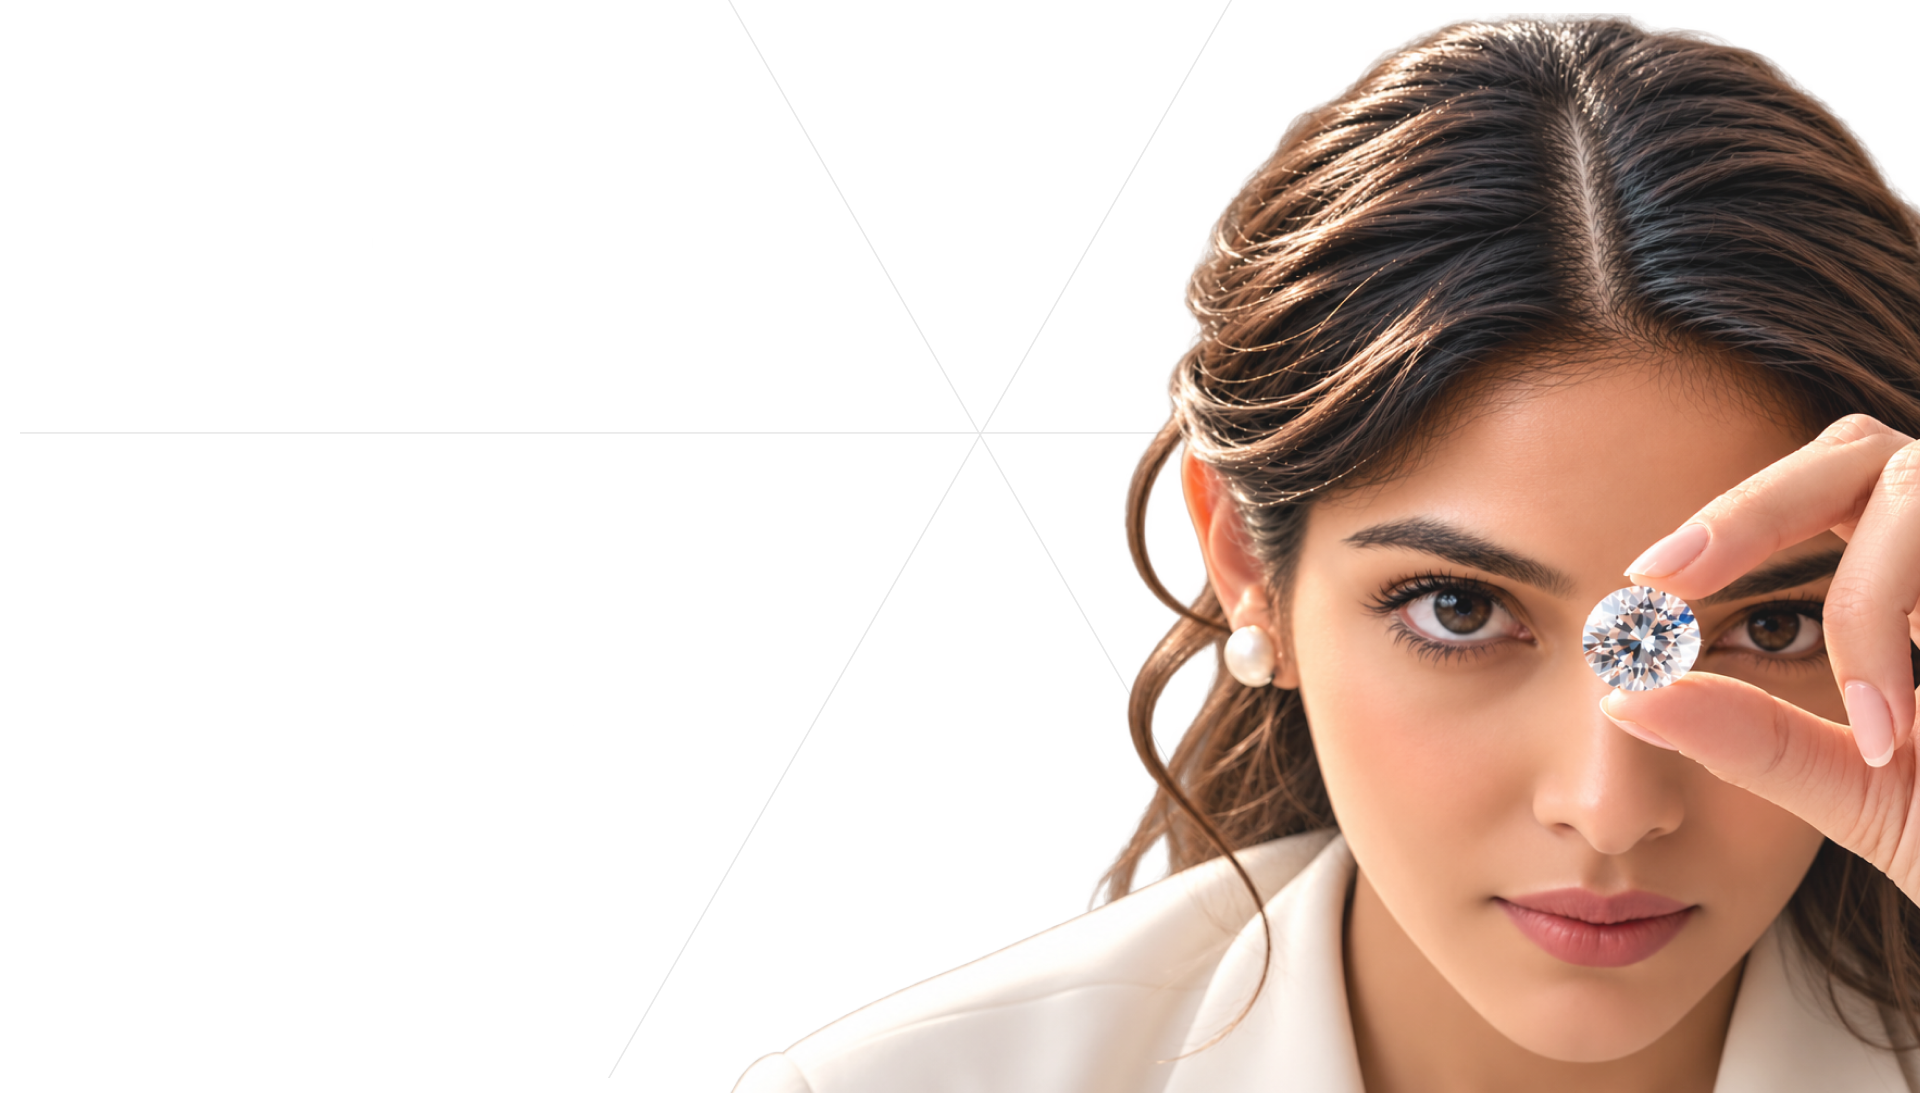
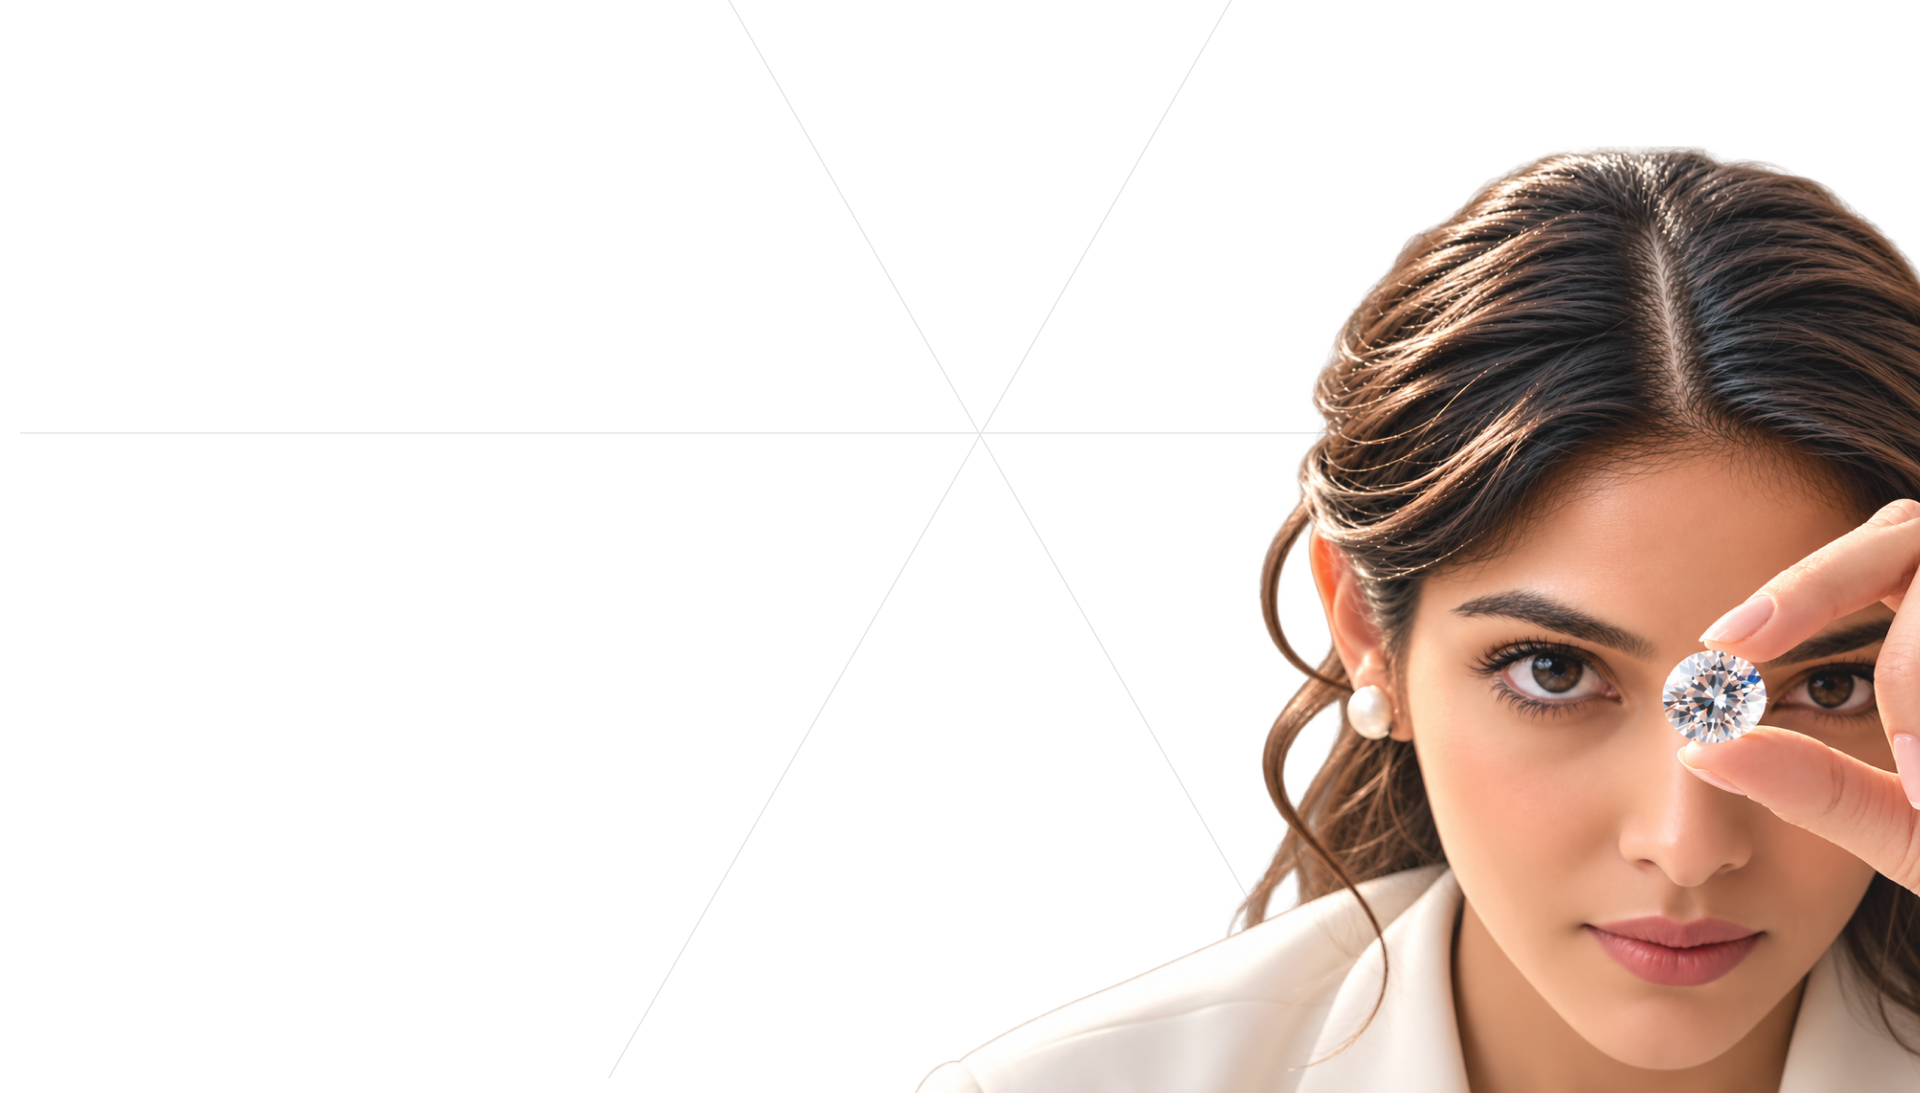
Hide the grey half-arc at the start; it only appears while the handle is dragged

diff --git a/index.html b/index.html
@@ -43,7 +43,7 @@
 <div class="a mont6 caps nw" style="left:472px;top:1292px;font-size:64px;line-height:103.054px;color:#1e1e1e">in the earth One in a lab</div>
 <div class="a man3" style="left:980px;top:1406px;width:764px;height:131px;transform:translateX(-50%);text-align:center;letter-spacing:1px;color:#111;font-size:20px;line-height:26px">Natural diamonds form deep underground over millions of years. Lab-grown diamonds form in weeks. Chemically and optically they are the same. <span style="color:#000">So how can you tell them apart?</span></div>
 <div class="a " style="left:571.47px;top:1633.46px;width:777.058px;height:777.058px"><img src="assets/ellipse12.svg" alt="" class="fill"></div>
-<div class="a" id="arc" style="left:571.47px;top:1633.46px;width:777.058px;height:777.058px;"><div class="a rc" style="left:388.53px;top:0;width:388.529px;height:777.058px"><div style="flex:none;position:relative;width:777.058px;height:388.529px;transform:rotate(90deg)"><div class="a" style="inset:-0.64% -0.32% 0 -0.32%"><img src="assets/ellipse17.svg" alt="" class="fill"></div></div></div><div class="a" style="left:384.53px;top:-3.46px;width:8px;height:0;transform:rotate(90deg)"><img class="ln" src="assets/line11.svg" alt=""></div><div class="a" style="left:384.53px;top:777.54px;width:8px;height:0;transform:rotate(90deg)"><img class="ln" src="assets/line11.svg" alt=""></div></div>
+<div class="a" id="arc" style="left:571.47px;top:1633.46px;width:777.058px;height:777.058px;opacity:0"><div class="a rc" style="left:388.53px;top:0;width:388.529px;height:777.058px"><div style="flex:none;position:relative;width:777.058px;height:388.529px;transform:rotate(90deg)"><div class="a" style="inset:-0.64% -0.32% 0 -0.32%"><img src="assets/ellipse17.svg" alt="" class="fill"></div></div></div><div class="a" style="left:384.53px;top:-3.46px;width:8px;height:0;transform:rotate(90deg)"><img class="ln" src="assets/line11.svg" alt=""></div><div class="a" style="left:384.53px;top:777.54px;width:8px;height:0;transform:rotate(90deg)"><img class="ln" src="assets/line11.svg" alt=""></div></div>
 <div class="a" id="arcL" style="left:571.47px;top:1633.46px;width:777.058px;height:777.058px;transform:scaleX(-1);opacity:0"><div class="a rc" style="left:388.53px;top:0;width:388.529px;height:777.058px"><div style="flex:none;position:relative;width:777.058px;height:388.529px;transform:rotate(90deg)"><div class="a" style="inset:-0.64% -0.32% 0 -0.32%"><img src="assets/ellipse17.svg" alt="" class="fill"></div></div></div><div class="a" style="left:384.53px;top:-3.46px;width:8px;height:0;transform:rotate(90deg)"><img class="ln" src="assets/line11.svg" alt=""></div><div class="a" style="left:384.53px;top:777.54px;width:8px;height:0;transform:rotate(90deg)"><img class="ln" src="assets/line11.svg" alt=""></div></div>
 <div class="a" style="left:1345px;top:2029px;width:8px;height:0;transform:rotate(0deg)"><img class="ln" src="assets/line10.svg" alt=""></div>
 <div class="a " style="left:502.18px;top:1564.17px;width:915.642px;height:915.642px"><img src="assets/ellipse13.svg" alt="" class="fill"></div>

diff --git a/tools/build.js b/tools/build.js
@@ -82,7 +82,7 @@ push(box('left:571.47px;top:1633.46px;width:777.058px;height:777.058px', img('el
 const ARC = (id, extra) => `<div class="a" id="${id}" style="left:571.47px;top:1633.46px;width:777.058px;height:777.058px;${extra}">` +
   `<div class="a rc" style="left:388.53px;top:0;width:388.529px;height:777.058px"><div style="flex:none;position:relative;width:777.058px;height:388.529px;transform:rotate(90deg)"><div class="a" style="inset:-0.64% -0.32% 0 -0.32%">${img('ellipse17', 'svg', 'class="fill"')}</div></div></div>` +
   line(388.53, -3.46, 8, 90, 'line11') + line(388.53, 777.54, 8, 90, 'line11')  + `</div>`;
-push(ARC('arc', ''));
+push(ARC('arc', 'opacity:0'));
 push(ARC('arcL', 'transform:scaleX(-1);opacity:0'));
 push(line(1349, 2029, 8, 0, 'line10').replace('left:1345px', 'left:1345px'));
 push(box('left:502.18px;top:1564.17px;width:915.642px;height:915.642px', img('ellipse13', 'svg', 'class="fill"')));

diff --git a/script.js b/script.js
@@ -144,8 +144,8 @@
       knob.style.left = (cx - KNOB_R) + 'px';
       lab.style.clipPath = 'inset(0 0 0 ' + clamp((cx - CMP_L) / CMP_W, 0, 1) * 100 + '%)';
       var t = (cx - MID) / REACH;                       // -1 (left stop) .. 1 (right stop)
-      // the grey half-arc stays left/right: right half while lab-grown, left half once natural takes over
-      arc.style.opacity = t <= 0 ? 1 : clamp(1 - t * 2.2, 0, 1);
+      // the grey half-arc is hidden at the start; dragging left shows the right half (lab-grown), dragging right shows the left half (natural)
+      arc.style.opacity = clamp(-t * 2.2, 0, 1);
       arcL.style.opacity = clamp(t * 2.2, 0, 1);
       // dragged left: the new lab-grown copy takes the left side and the original lab-grown copy stays on the right.
       // dragged right: the new natural copy takes the right side and the original natural copy stays on the left.
